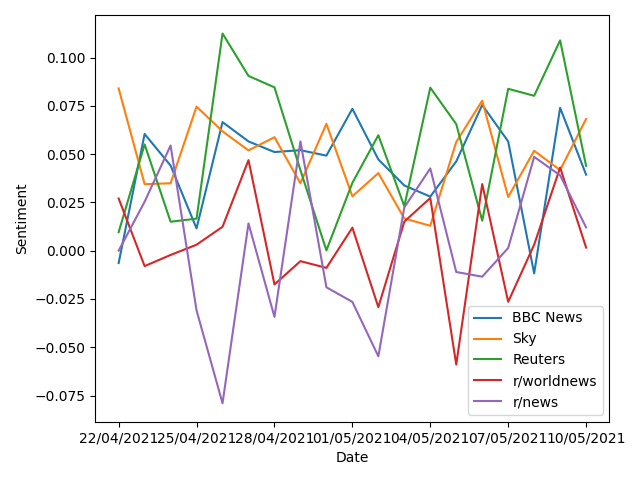
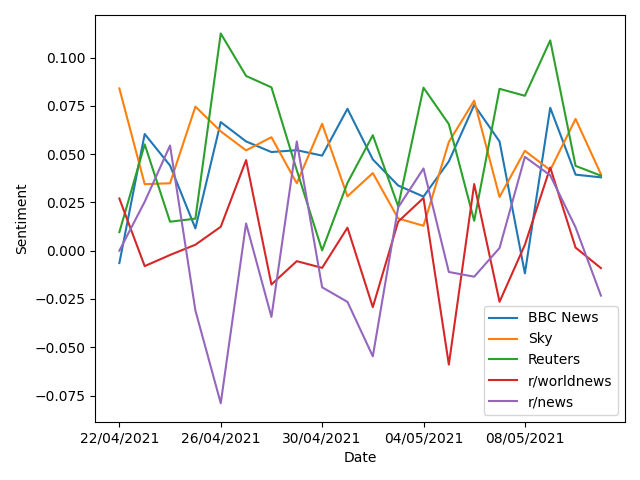
Automatic update (gitControl.py)

Changed region(s): [[0.1875, 0.0625, 0.9688, 0.8438], [0.125, 0.625, 0.9688, 0.9688]]

diff --git a/README.md b/README.md
@@ -3,7 +3,7 @@
 World news sentiment data, updated at 07:00 daily.
 
 **Started:** `22/04/2021`<br>
-**Updated:** `10/05/2021, 07:00:35`<br>
+**Updated:** `11/05/2021, 07:00:41`<br>
 **Sources:** `BBC News, Sky, Reuters, r/worldnews, r/news`
 
 <img src="https://user-images.githubusercontent.com/25552804/115932698-55adef00-a485-11eb-82bb-2265c0821ca0.png" width="20%" height="20%">

diff --git a/docs/index.md b/docs/index.md
@@ -3,7 +3,7 @@
 World news sentiment data, updated at 07:00 daily.
 
 **Started:** `22/04/2021`<br>
-**Updated:** `10/05/2021, 07:00:35`<br>
+**Updated:** `11/05/2021, 07:00:41`<br>
 **Sources:** `BBC News, Sky, Reuters, r/worldnews, r/news`
 
 <img src="https://user-images.githubusercontent.com/25552804/115932698-55adef00-a485-11eb-82bb-2265c0821ca0.png" width="20%" height="20%">
